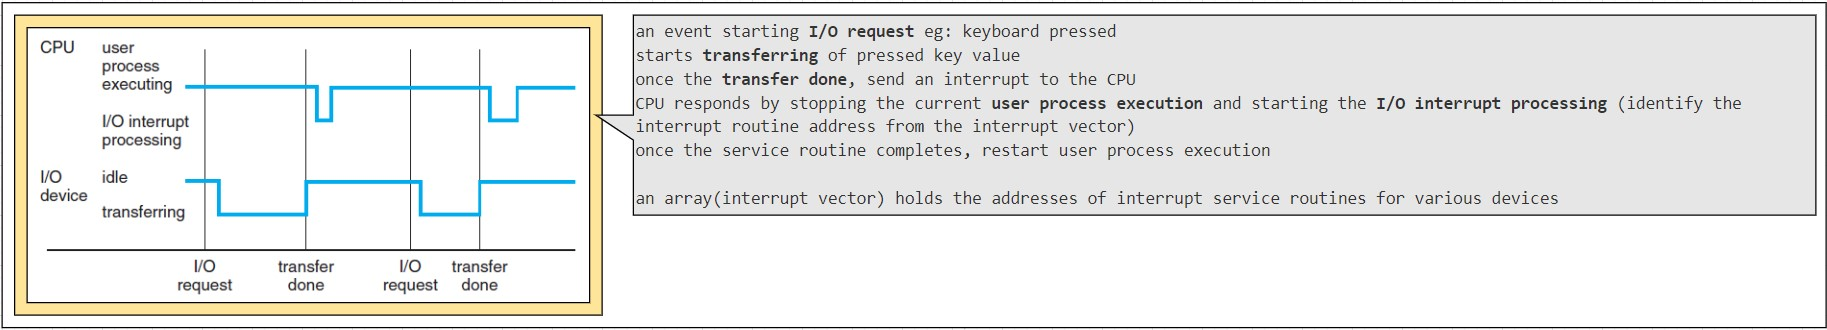
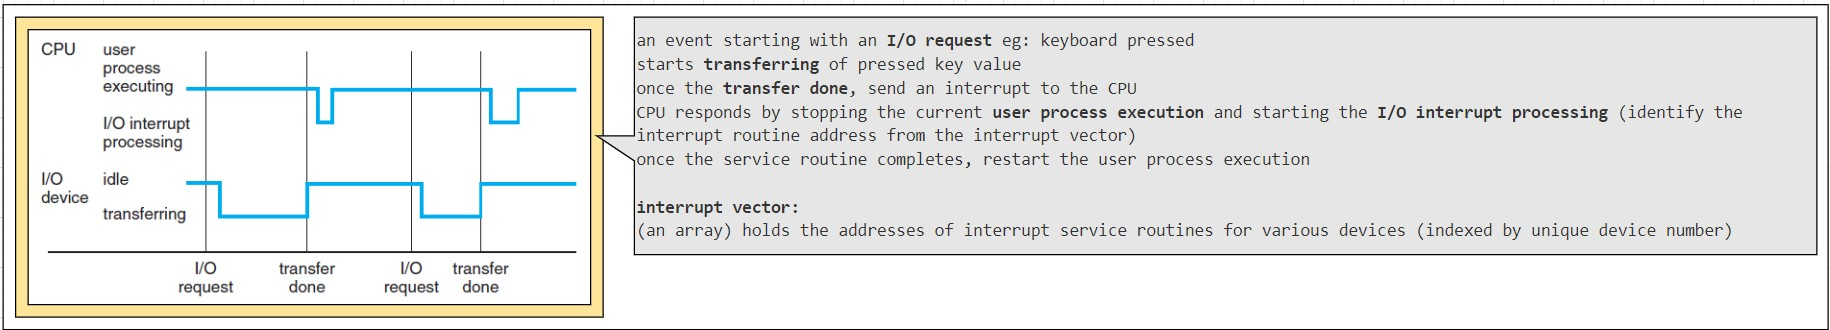
0.0

Changed region(s): [[0.0, 0.0, 1.0, 1.0], [0.156, 0.5152, 0.312, 0.6667], [0.2496, 0.3333, 0.2808, 0.3939]]

diff --git a/index.html b/index.html
@@ -37,51 +37,77 @@
 <hr>
 <b id="id_introduction_detail">introduction</b>
 <img src="images/os-birds-eye-view.jpg" alt="" width="9%" height="9%">
-- what operating systems do
+# what operating systems do
     = a computer system can be divided roughly into four components
-        # hardware
-        # operating system
-        # application programs
-        # users
+        - hardware
+        - operating system
+        - application programs
+        - users
     = operating system manages computer hardware, system programs, application programs and users
     = an operating system acts as an intermediary between the user of a computer and the computer hardware
     = operating system is the program running at all times on the computer called the kernel
     = 2 other types of programs along with the kernel are
-        # system programs (associated with the operating system but are not necessarily part of the kernel)
-        # application programs (not associated with the operation of the system)
+        - system programs (associated with the operating system but are not necessarily part of the kernel)
+        - application programs (not associated with the operation of the system)
     = mobile operating systems often includes a middleware (set of software frameworks provides services to application developers)
-- computer-system organization
+# computer-system organization
     <img src="images/moderncomputersystem.jpg" alt="" width="20%" height="10%">
     = computer-system components
-        # a modern computer system consists of one or more CPUs and a number of device controllers connected through a common bus that provide access to shared memory
-        # each device controller is in charge of a specific type of devices
-        # CPUs and device controllers can execute in parallel competing for memory cycles
-        # memory controller synchronizes access to the memory
-    = computer-system operation
-        # when a computer powered up or reboot the initial program to execute is bootstrap program
-        # typically this program is stored with in the computer hardware in readonly memory(ROM) or firmware(EEPROM-electronically erasable programmable memory)
-        # the bootstrap program must locate the operating system kernel and load into memory
-        # the kernel starts providing services to the system and the users, some services are provided by few external programs
-        # these external programs are called system programs which is loaded to memory at boot time to become system process or daemons(in unix first daemon is 'init')
+        - a modern computer system consists of one or more CPUs and a number of device controllers connected through a common bus that provide access to shared memory
+        - each device controller is in charge of a specific type of device
+        - CPUs and device controllers can execute in parallel competing for memory cycles
+        - memory controller synchronizes access to the memory
+    = computer-system starting
+        - when a computer powered up or reboot the initial program to execute is bootstrap program
+        - typically this program is stored with in the computer hardware in ROM - readonly memory or firmware(EEPROM - electronically erasable programmable memory)
+        - the bootstrap program must locate the operating system kernel and load into memory
+        - the kernel starts providing services to the system and the users, some services are provided by few external programs
+        - these external programs are called system programs which is loaded to memory at boot time to become system process or daemons(in unix first daemon is 'init')
     = devices and CPU communication(events)
-        # events are occurred through interrupt mechanism from either the hardware or the software
-        # hardware may trigger an interrupt at any time by sending a signal to the CPUs usually by way of system bus
-        # software may trigger an interrupt at any time by executing a special operation called a system call(monitor call)
-        # when a CPU is interrupted, it stops the current operation and transfers to a fixed location
-        # that fixed location contains the starting address of service routine for the interrupt
-        # on completion, the CPU resumes the interrupted computation
-        <img src="images/interrupttimeline.jpg" alt="" width="20%" height="10%">
-        # explanation
-            . I/O request - eg:keyboard pressed
-            . transferring of key value
-            . once the transfer completes, send an interrupt to CPU
-            . CPU respond by stopping the current execution and start the interrupted service routine(address of the routine picked from interrupt vector)
-            . once the service routine completes, restart stopped execution
-            . similar process continues
-            . an array(interrupt vector) holds the addresses of interrupt service routines for various devices
+        - events are occurred through interrupt mechanism from either the hardware or the software
+        - hardware may trigger an interrupt at any time by sending a signal to the CPUs usually by way of system bus
+        - software may trigger an interrupt at any time by executing a special operation called a system call(monitor call)
+        - when a CPU is interrupted, it stops the current operation and transfers to a fixed location
+        - that fixed location contains the starting address of service routine for the interrupt
+        - on completion, the CPU resumes the interrupted computation
+        <img src="images/interrupttimeline.jpg" alt="" width="70%" height="40%">
     = storage structure
+        <img src="images/storagehierarchy.jpg" alt="" width="20%" height="10%">
+        - all forms of memory provide an array of bytes and every byte has an address
+        - main memory mainly implemented in a semiconductor technology called DRAM-dynamic random access memory is called RAM
+        - SSD, solid state drive is a non-volatile memory and stores data in a DRAM array during normal operation but also contains a hidden magnetic hard disk and a battery
+        - when external power is interrupted the SSD's controller will copy data from RAM to disk so its becomes non-volatile. when the external power is restored controller copies the data back to RAM  
+        - another non-volatile form is flash memory which doesn't require power to retain its contents and its a variant of EEPROM-electrically erasable programmable read-only memory 
+        - another non-volatile form is NVRAM which is DRAM with battery power
     = i/o structure
-computer-system architecture
+        <img src="images/devicecontrolleranddriver.jpg" alt="" width="17%" height="10%">
+        - every operating system have a device driver for each device controller
+        - device driver is a software program with which the device controller interacts with the operating system
+        - device controller is a hardware unit attached to the I/O bus and works like an interface between a device and a device driver
+        - device controller maintains some local buffer storage and a set of special purpose registers and it is responsible for moving the data between the peripheral devices and its local buffer storage 
+        - each device controller is in charge of a specific type of device
+        - SCSI-small computer systems interface controller can attach to seven or more devices 
+        - how data movement happens (small amount of data movement)
+            . device driver loads instructions to appropriate registers on the device controller
+            . device controller examines the contents of these registers to determine what action to take(like read)
+            . if its read instruction, device controller starts the transfer of data from the I/O device to its local buffer
+            . once the transfer completes, device controller informs the device driver via an interrupt that it has finished the operation
+            . device driver then returns control to the operating system and load data to memory
+        - how data movement happens (bulk data movement)
+            . device controller populate local buffers and transfers bulk of data to and from directly to memory
+            . this movement does not involve CPU and its called direct memory access(DMA)
+# computer-system architecture
+    = execution of instructions
+        - Von Neumann architecture was first published by John von Neumann in 1945
+        <img src="images/vonneumannarchitecture.jpg" alt="" width="17%" height="10%">
+        - it is based on the stored-program computer concept, where instruction data and program data are stored in the same memory
+        - interaction with CPU and memory unit is achieved through load and store instructions to specific memory addresses
+        - load - from main memory to internal registers within the CPU
+        - store - from internal registers to main memory
+        - need arises, CPUs explicitly loads instructions from main memory for execution
+        - instructions are processed via fetch-execute cycle
+        - CPU can load instruction only from main memory(RAM-random access memory)
+        <img src="images/fetchexecutecycle.jpg" alt="" width="20%" height="8%">
 operating-system structure
 operating-system operations
 process management
